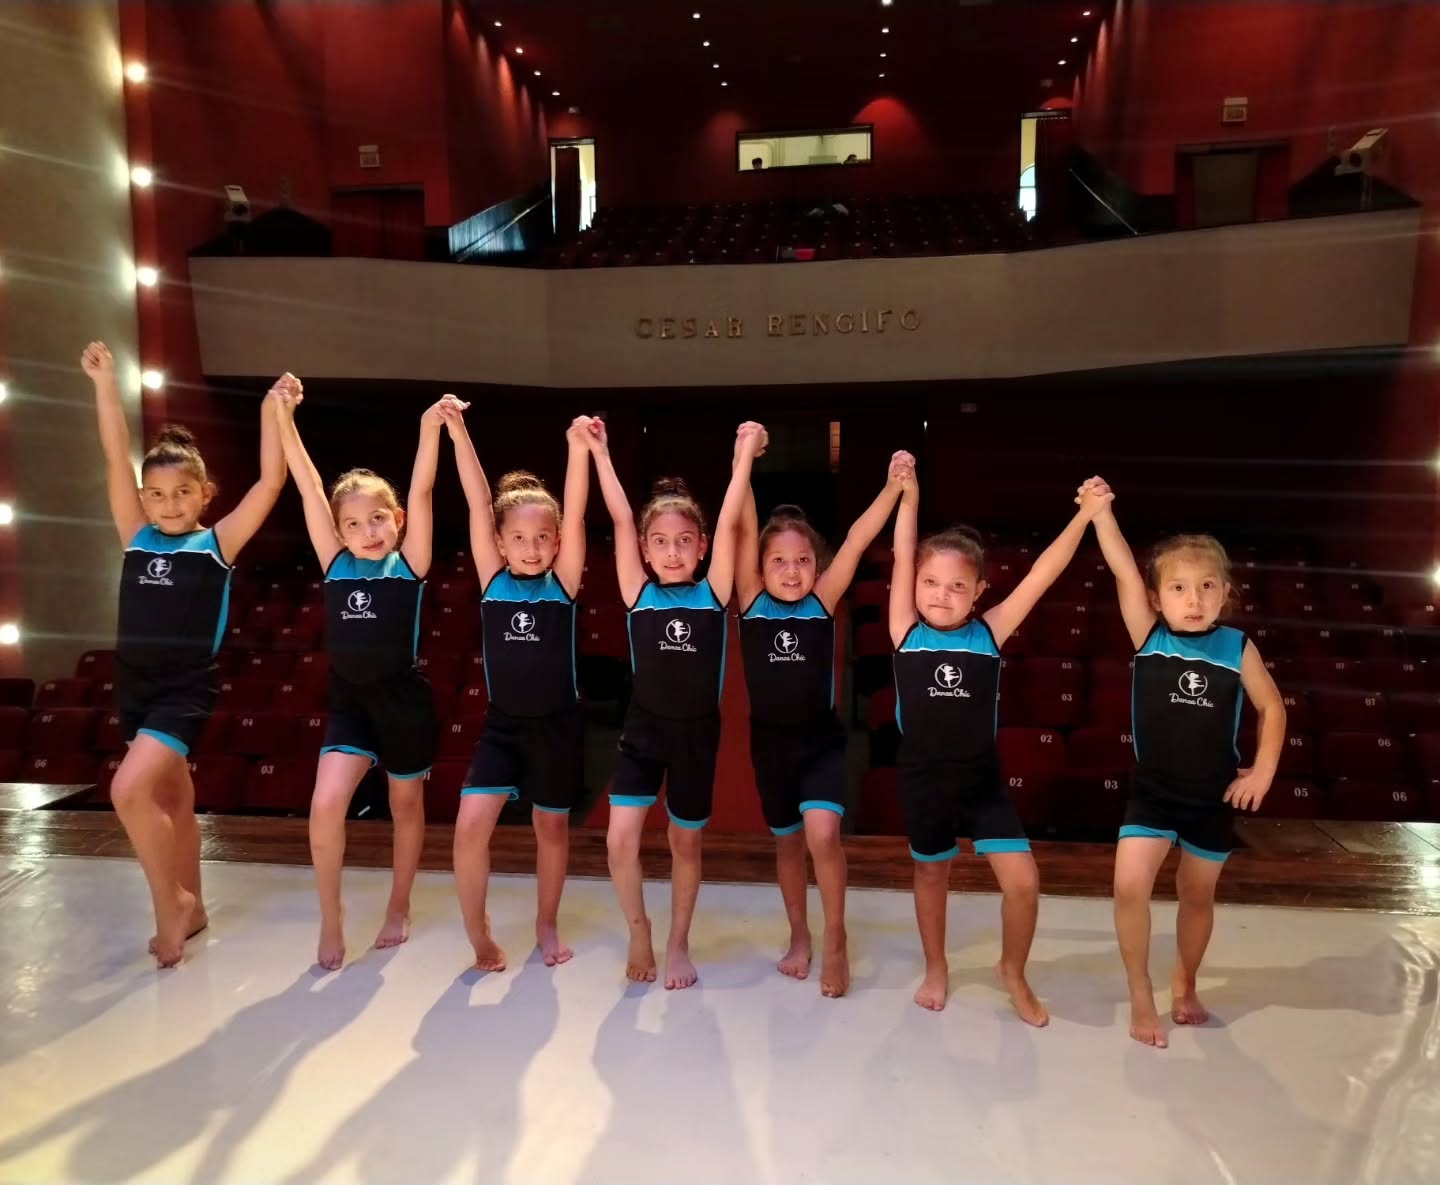
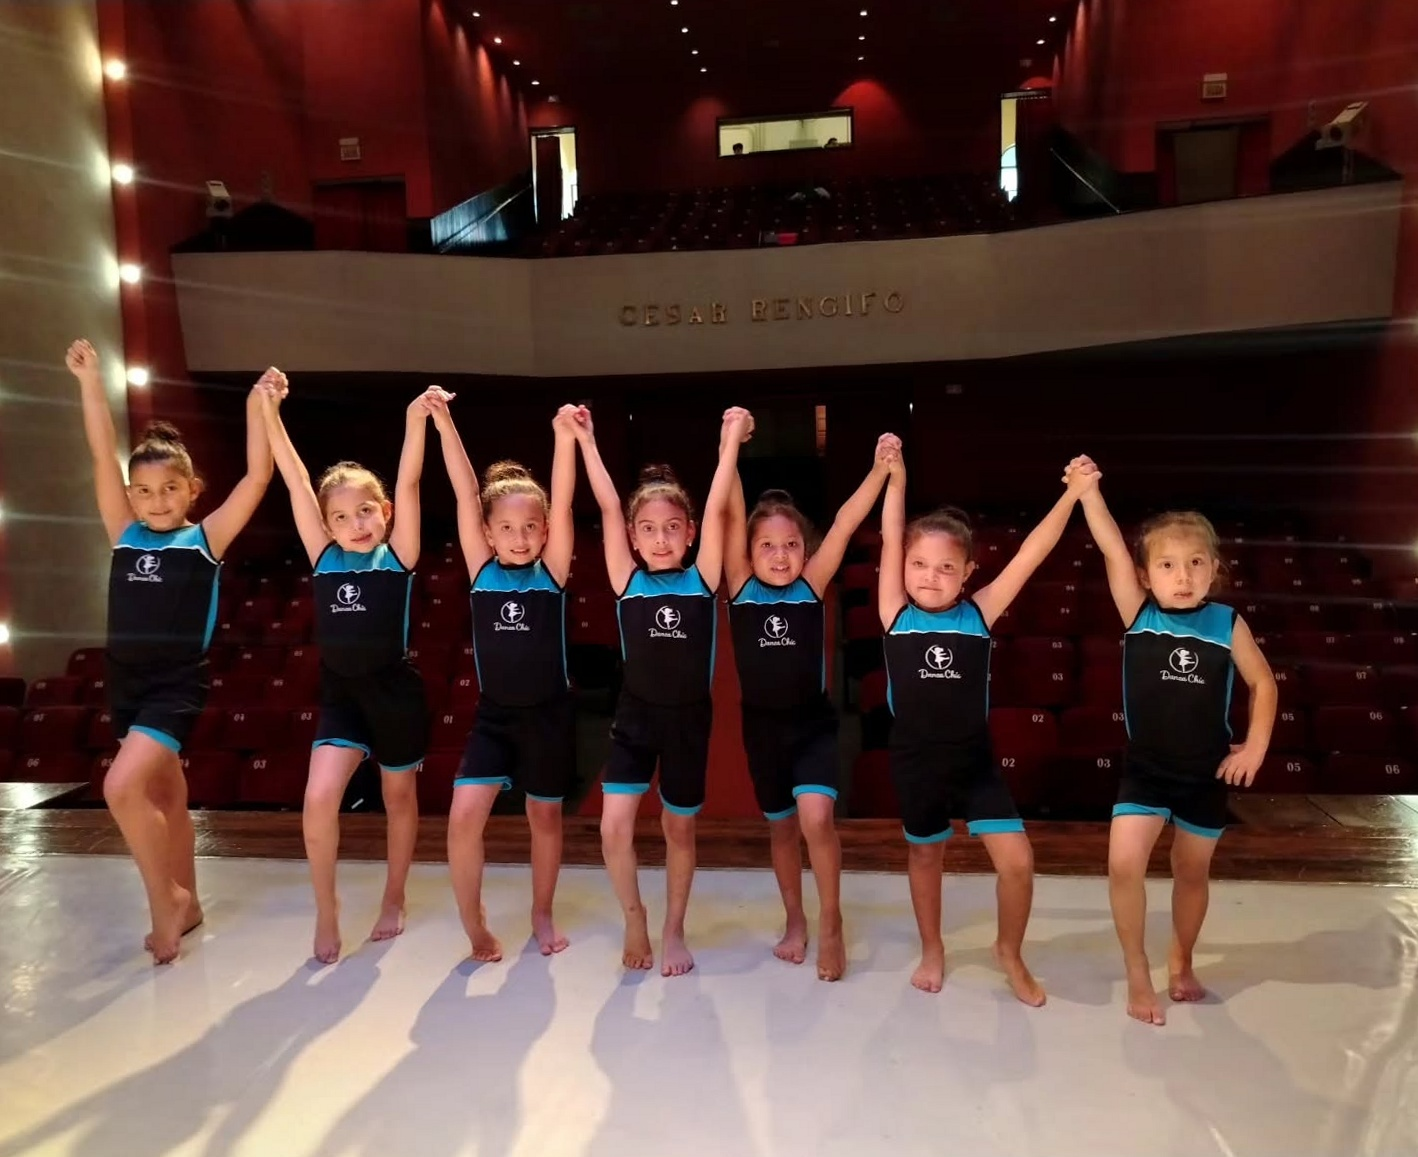
Corrección de enderezado, encuadre y contenedores CSS
Fotografías individuales:
- 9e97f222 (teatro): rotación de 1.1° para nivelar la línea del balcón "Cesar Rengifo", recorte mínimo sin generar bordes negros. Original conservado en assets/img/originals/.
- bdf9f64e: se extrae solo el panel derecho del collage (el izquierdo tenía el pie cortado por el borde), y se corrige la subexposición del pasillo oscuro.
- 6f43bd07: se extrae el panel central del tríptico y se corrige el balance de blancos (tenía un tinte frío/azulado por contraluz de ventanal), recorte ajustado para eliminar espacio vacío de ventana sin perder a la entrenadora ni a la alumna.

CSS — resolver por contenedor antes que por recorte de archivo:
- Pilares: se reduce el ratio del contenedor de 1.7:1 a ~1.35:1 (250px a 320px de alto) para necesitar menos recorte sobre las fotos cuadradas.
- object-position: bottom en los pilares Técnica y Progresión para proteger manos apoyadas en el suelo.
- object-position: bottom en las 3 fotos cuadradas de competencia en Escenario, para conservar al grupo y recortar el techo/estructura de fondo.
- object-position: left center en la foto principal de María Daniela (atleta) para proteger la mano extendida.
- Nueva clase gallery-training__item--tall (480px) para bdf9f64e, ya que su extensión corporal vertical no cabe en una celda cuadrada estándar sin cortar el pie.

Claude-Session: https://claude.ai/code/session_01VJ6Hg21AoGGeEz5S7jddRG

diff --git a/danza-chic-premium/index.html b/danza-chic-premium/index.html
@@ -10,7 +10,7 @@
   <link rel="preconnect" href="https://fonts.gstatic.com" crossorigin>
   <link href="https://fonts.googleapis.com/css2?family=Playfair+Display:wght@600;700;800&family=Inter:wght@300;400;500;600;700&display=swap" rel="stylesheet">
 
-  <link rel="stylesheet" href="styles.css?v=2026081002">
+  <link rel="stylesheet" href="styles.css?v=2026081003">
 </head>
 <body>
 
@@ -86,7 +86,7 @@
       <div class="pillars__grid">
         <!-- Técnica -->
         <div class="pillar" data-reveal-delay="0.1">
-          <div class="pillar__image">
+          <div class="pillar__image pillar__image--bottom">
             <img src="assets/img/907d51d8-10528.jpg" alt="Técnica: corrección de movimiento" loading="lazy">
           </div>
           <div class="pillar__content">
@@ -108,7 +108,7 @@
 
         <!-- Progresión -->
         <div class="pillar" data-reveal-delay="0.3">
-          <div class="pillar__image">
+          <div class="pillar__image pillar__image--bottom">
             <img src="assets/img/d6cf228b-10525.jpg" alt="Progresión: avance estructurado" loading="lazy">
           </div>
           <div class="pillar__content">
@@ -164,7 +164,7 @@
           <div class="gallery-training__label">Estiramiento Guiado</div>
         </div>
 
-        <div class="gallery-training__item" data-reveal-delay="0.25">
+        <div class="gallery-training__item gallery-training__item--tall" data-reveal-delay="0.25">
           <img src="assets/img/bdf9f64e-10598.jpg" alt="Extensión y flexibilidad" loading="lazy">
           <div class="gallery-training__label">Extensión y Flexibilidad</div>
         </div>
@@ -239,17 +239,17 @@
           <div class="escenario__label">Coreografía en Escena</div>
         </div>
 
-        <div class="escenario__item" data-reveal-delay="0.25">
+        <div class="escenario__item escenario__item--bottom" data-reveal-delay="0.25">
           <img src="assets/img/5bde80a6-10585.jpg" alt="Backstage antes de competir" loading="lazy">
           <div class="escenario__label">Backstage de Competencia</div>
         </div>
 
-        <div class="escenario__item" data-reveal-delay="0.3">
+        <div class="escenario__item escenario__item--bottom" data-reveal-delay="0.3">
           <img src="assets/img/d5b30d4e-10583.jpg" alt="Podio de competencia" loading="lazy">
           <div class="escenario__label">Podio de Competencia</div>
         </div>
 
-        <div class="escenario__item" data-reveal-delay="0.35">
+        <div class="escenario__item escenario__item--bottom" data-reveal-delay="0.35">
           <img src="assets/img/994df459-10584.jpg" alt="Reconocimiento en competencia" loading="lazy">
           <div class="escenario__label">Reconocimiento</div>
         </div>
@@ -459,9 +459,9 @@
   </footer>
 
   <!-- Scripts -->
-  <script defer src="https://cdnjs.cloudflare.com/ajax/libs/gsap/3.12.2/gsap.min.js?v=2026081002"></script>
-  <script defer src="https://cdnjs.cloudflare.com/ajax/libs/gsap/3.12.2/ScrollTrigger.min.js?v=2026081002"></script>
-  <script defer src="main.js?v=2026081002"></script>
+  <script defer src="https://cdnjs.cloudflare.com/ajax/libs/gsap/3.12.2/gsap.min.js?v=2026081003"></script>
+  <script defer src="https://cdnjs.cloudflare.com/ajax/libs/gsap/3.12.2/ScrollTrigger.min.js?v=2026081003"></script>
+  <script defer src="main.js?v=2026081003"></script>
 
 </body>
 </html>

diff --git a/danza-chic-premium/styles.css b/danza-chic-premium/styles.css
@@ -265,7 +265,7 @@ a:hover { color: var(--magenta-active); }
 
 .pillar__image {
   width: 100%;
-  height: 250px;
+  height: 320px;
   overflow: hidden;
   background: var(--gris-claro);
 }
@@ -274,8 +274,11 @@ a:hover { color: var(--magenta-active); }
   width: 100%;
   height: 100%;
   object-fit: cover;
+  object-position: center;
   transition: transform 0.6s ease;
 }
+
+.pillar__image--bottom img { object-position: center bottom; }
 
 .pillar__image:hover img { transform: scale(1.05); }
 
@@ -539,7 +542,10 @@ a:hover { color: var(--magenta-active); }
   width: 100%;
   height: 100%;
   object-fit: cover;
+  object-position: center;
 }
+
+.experiencia__image--main img { object-position: left center; }
 
 @media (max-width: 900px) {
   .experiencia__images { grid-template-columns: 1fr 1fr; }
@@ -837,6 +843,7 @@ a:hover { color: var(--magenta-active); }
   margin: 0 auto var(--spacing-2xl);
   display: grid;
   grid-template-columns: repeat(auto-fit, minmax(220px, 1fr));
+  align-items: start;
   gap: var(--spacing-lg);
 }
 
@@ -847,6 +854,8 @@ a:hover { color: var(--magenta-active); }
   background: var(--gris-claro);
   cursor: pointer;
 }
+
+.gallery-training__item--tall { height: 480px; }
 
 .gallery-training__item img {
   width: 100%;
@@ -980,8 +989,11 @@ a:hover { color: var(--magenta-active); }
   width: 100%;
   height: 100%;
   object-fit: cover;
+  object-position: center;
   transition: transform 0.6s ease;
 }
+
+.escenario__item--bottom img { object-position: center bottom; }
 
 .escenario__item:hover img {
   transform: scale(1.05);
@@ -1022,6 +1034,7 @@ a:hover { color: var(--magenta-active); }
   .gallery-training { padding: var(--spacing-2xl) var(--spacing-md); }
   .gallery-training__grid { grid-template-columns: repeat(2, 1fr); gap: var(--spacing-md); }
   .gallery-training__item { height: 200px; }
+  .gallery-training__item--tall { height: 340px; }
   .formacion { padding: var(--spacing-2xl) var(--spacing-md); }
   .formacion__areas { grid-template-columns: 1fr; }
   .escenario { padding: var(--spacing-2xl) var(--spacing-md); }
